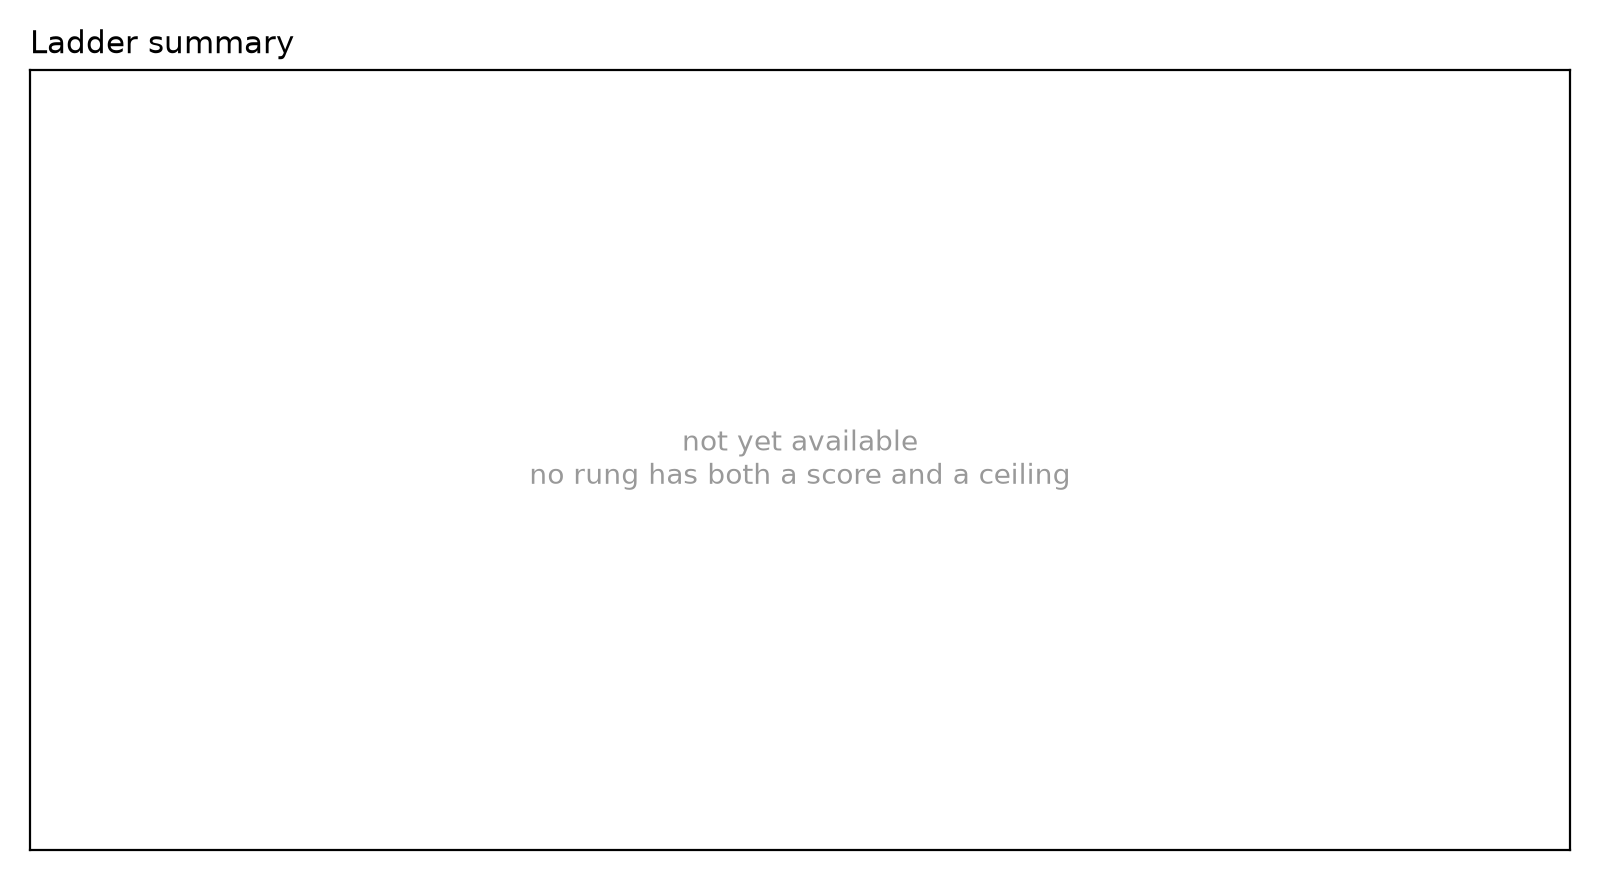
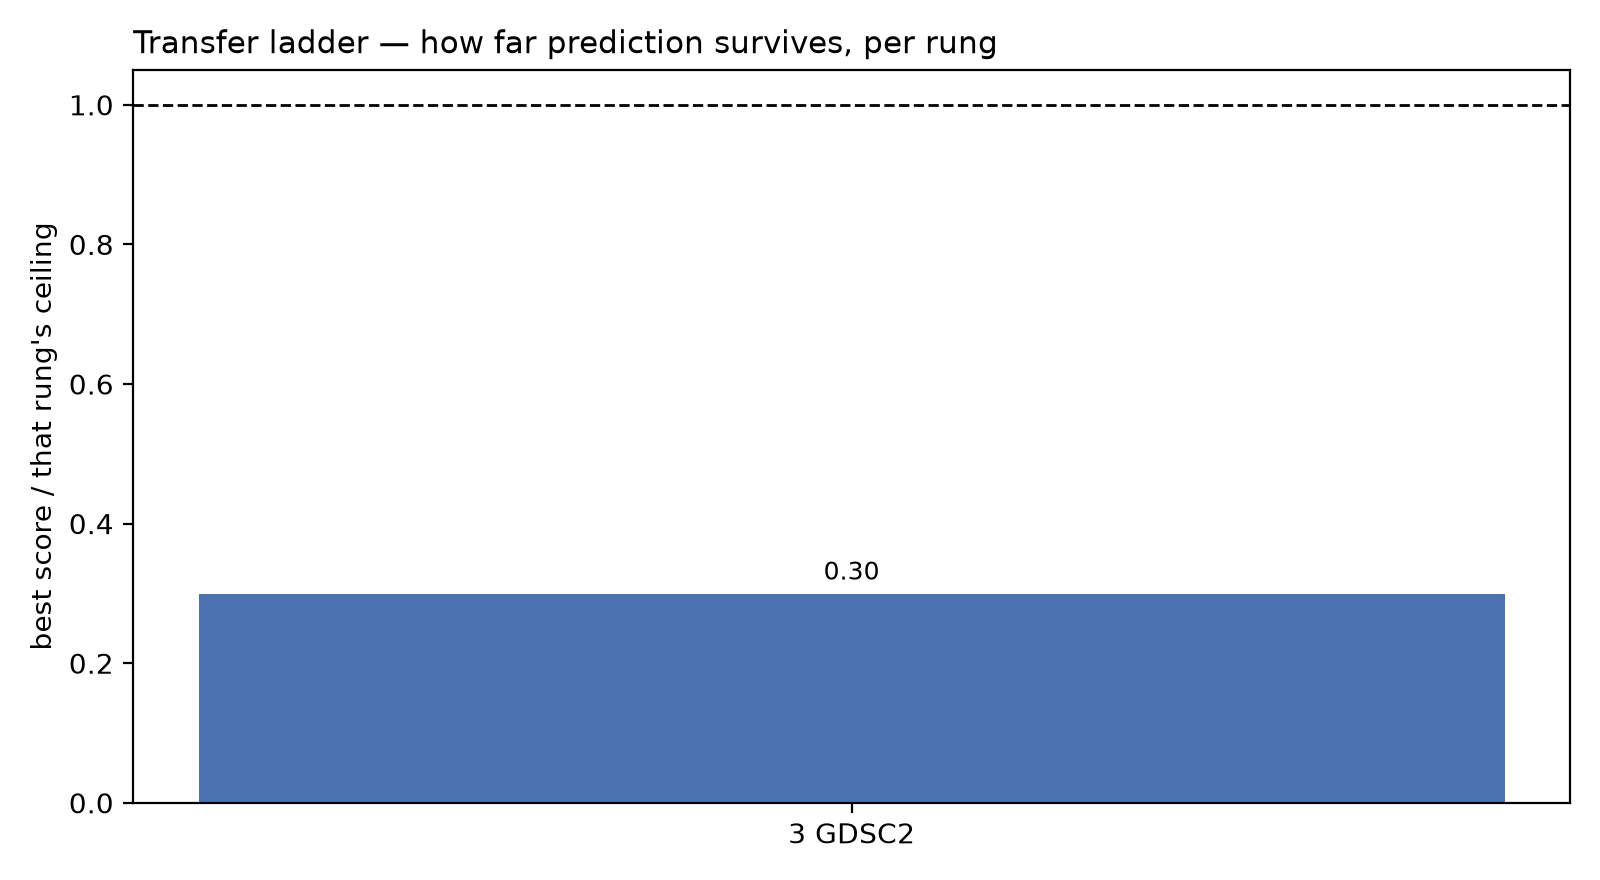
Promote rung 3, classify figures, and stop the figure inflating its controls
Rung 3 completed on the declared Check-2 panel with 5-fold CV from the shared
partition, all declared model-matrix variants present. Controls behave: the
planted positive control is recovered, prior sits at the exact floor, and the
per-representation noise rows cluster around zero. It supersedes the earlier
grid, which predates both the gene panel and the restoration of the positive
control to the array path.

The first draw of the figure took the best penalty per source. That is a
selection and it inflates whatever has no signal: a noise control outranked a
real baseline purely because the max of three noise draws exceeds any one of
them. A control made to look competitive by the plotter's own choice is worse
than no figure. Every penalty is now plotted as its own point, which also
exposes a caveat the max was hiding -- the one row clearing its permutation does
so under a single penalty and is negative under the other two, so the result is
penalty-specific and has to be reported that way.

docs/figures/** is classified public: rendered figures and the small summary
tables behind them are derived from already-promoted results. The
sample-identifier check still applies, so a figure summary that gained a
row-level column would still be refused.

diff --git a/scripts/plot_ladder_results.py b/scripts/plot_ladder_results.py
@@ -164,19 +164,31 @@ def fig_rung3(results: Path, out: Path, ceiling: float | None) -> str:
     if df is None or df.empty or "interaction" not in df.columns:
         _unavailable(ax, "Rung 3 — GDSC2 viability", job or "grid not promoted")
     else:
-        best = (df.sort_values("interaction", ascending=False)
-                  .drop_duplicates("source").sort_values("interaction"))
-        ax.barh(best["source"], best["interaction"],
-                color=[PALETTE[kind_of(s)] for s in best["source"]])
-        if "null_p95" in best.columns:
-            ax.scatter(best["null_p95"], np.arange(len(best)), marker="|", s=90,
-                       color="#333333", label="null p95", zorder=3)
+        # Show EVERY penalty, never the best one per source. Taking a max over three penalties
+        # is a selection, and it inflates whatever has no signal: on the first draw of this
+        # figure nmf_random -- a noise control -- outranked a real baseline purely because the
+        # max of three noise draws is higher than any one of them. A control made to look
+        # competitive by the plotter's own choice is worse than no figure.
+        order = (df.groupby("source")["interaction"].median().sort_values().index.tolist())
+        ypos = {s: i for i, s in enumerate(order)}
+        markers = {"l2": "o", "l1": "s", "en": "^"}
+        for meth, grp in df.groupby("method"):
+            ax.scatter(grp["interaction"], [ypos[s] for s in grp["source"]],
+                       marker=markers.get(str(meth), "o"), s=46,
+                       color=[PALETTE[kind_of(s)] for s in grp["source"]],
+                       edgecolor="white", linewidth=0.5, label=str(meth), zorder=3)
+        if "null_p95" in df.columns:
+            nl = df.groupby("source")["null_p95"].max()
+            ax.scatter([nl[s] for s in order], range(len(order)), marker="|", s=110,
+                       color="#333333", label="null p95", zorder=2)
+        ax.set_yticks(range(len(order)))
+        ax.set_yticklabels(order, fontsize=8)
         if ceiling and np.isfinite(ceiling):
             ax.axvline(ceiling, color=PALETTE["ceiling"], ls="--", lw=1.2,
                        label=f"screen-agreement ceiling {ceiling:.3f}")
         ax.axvline(0, color="#cccccc", lw=0.8)
         ax.set_xlabel("interaction rho (cell-line-specific drug response)")
-        ax.set_title("Rung 3 — GDSC2 viability; grey = controls, red = Stack",
+        ax.set_title("Rung 3 - GDSC2 viability, every penalty shown; grey = controls, red = Stack",
                      fontsize=11, loc="left")
         ax.legend(fontsize=8, loc="lower right")
     fig.tight_layout()
